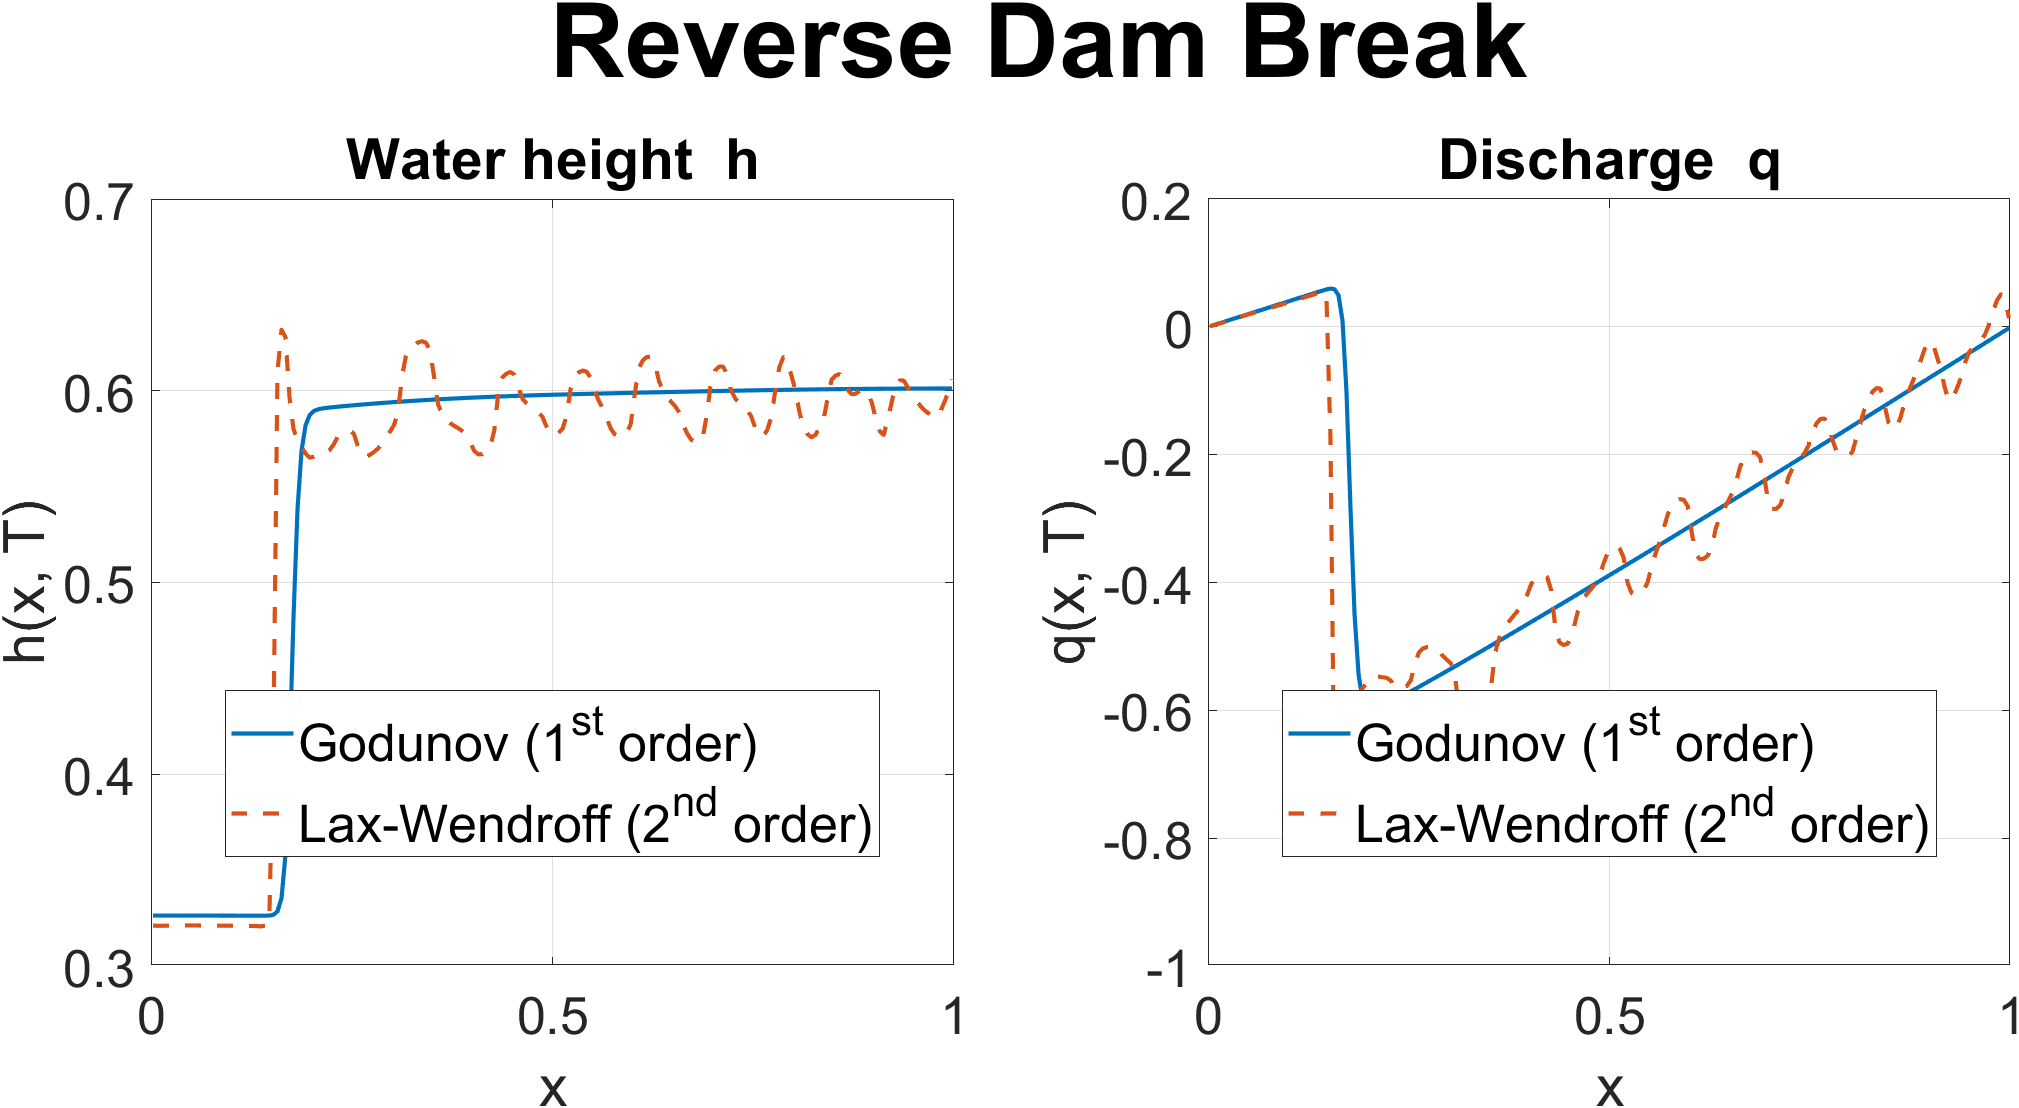
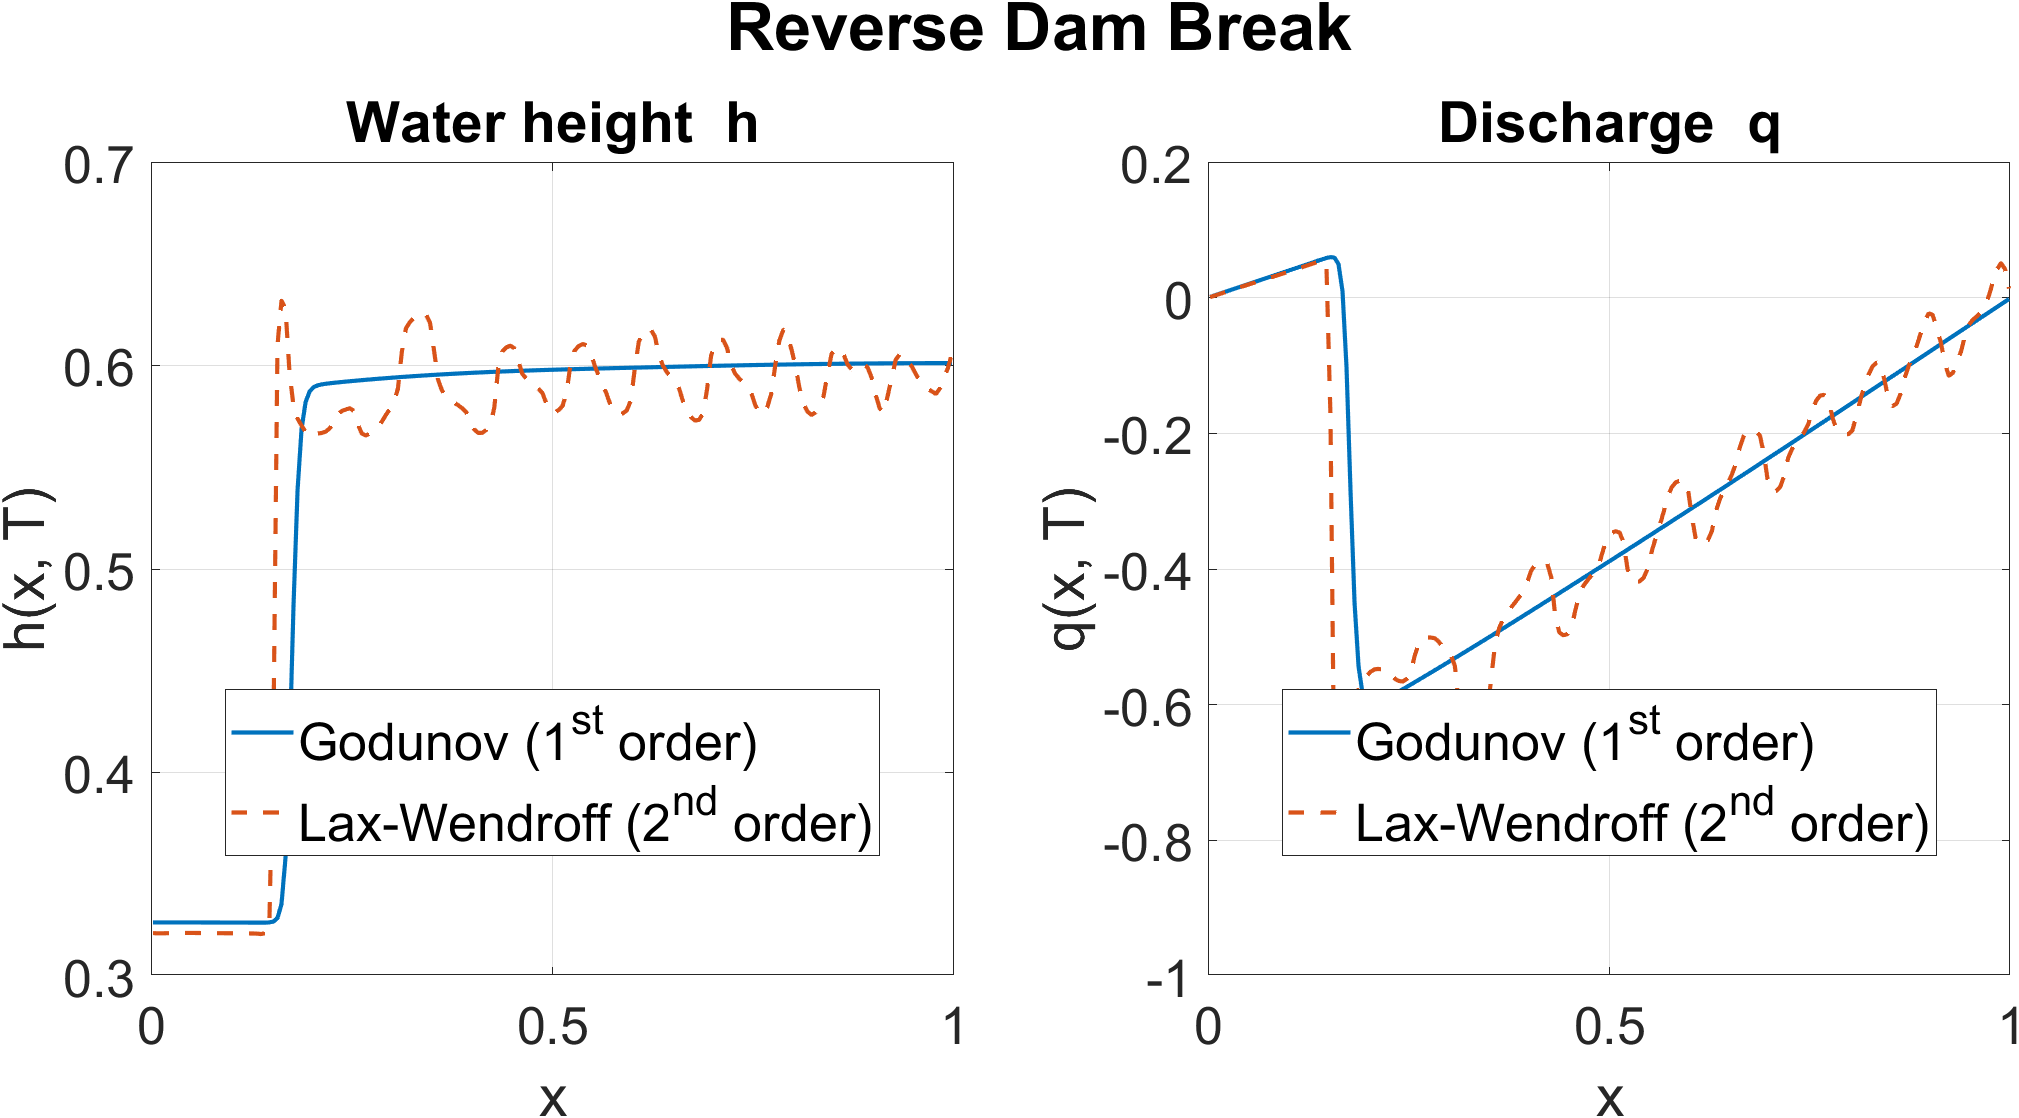
Last last

diff --git a/Homeworks/HW3/Codes/RunMainFVM.m b/Homeworks/HW3/Codes/RunMainFVM.m
@@ -26,7 +26,7 @@ if ~exist(out_dir, 'dir'), mkdir(out_dir); end
 % GLOBAL STYLE — edit ONLY here
 fs  = 25;           % axis/tick/legend font size
 fst = 50;           % sgtitle font size
-fsb = 25;           % subplot title font size
+fsb = 32;           % subplot title font size
 lw  = 2;            % line width
 c1  = '#0072BD';    % primary   — Godunov / Standard  (blue,   solid)
 c2  = '#D95319';    % secondary — LW / Modified       (orange, dashed)
@@ -57,7 +57,7 @@ for k = 1 : numel(Tests)
     figure('Name', fig_names_1{k}, 'NumberTitle', 'off');
     set(gcf, 'WindowState', 'maximized');
 
-    sgtitle(test_titles_1{k}, 'FontSize', fst, 'FontWeight', 'bold');
+    sgtitle(test_titles_1{k}, 'FontSize', fsb, 'FontWeight', 'bold');
 
     % Left panel — h
     subplot(1, 2, 1);
@@ -65,7 +65,7 @@ for k = 1 : numel(Tests)
     plot(Sol_LW.x, Sol_LW.h, '--', 'Color', c2, 'LineWidth', lw);
     xlabel('x',         'FontSize', fs);
     ylabel('h(x, T)',   'FontSize', fs);
-    title('Water height  h', 'FontSize', fsb, 'FontWeight', 'bold');
+    title('Water height  h', 'FontSize', fst, 'FontWeight', 'bold');
     legend('Godunov (1^{st} order)', 'Lax-Wendroff (2^{nd} order)', ...
            'FontSize', fs, 'Location', 'best');
     grid on; box on; ax = gca; ax.FontSize = fs;
@@ -76,7 +76,7 @@ for k = 1 : numel(Tests)
     plot(Sol_LW.x, Sol_LW.q, '--', 'Color', c2, 'LineWidth', lw);
     xlabel('x',         'FontSize', fs);
     ylabel('q(x, T)',   'FontSize', fs);
-    title('Discharge  q', 'FontSize', fsb, 'FontWeight', 'bold');
+    title('Discharge  q', 'FontSize', fst, 'FontWeight', 'bold');
     legend('Godunov (1^{st} order)', 'Lax-Wendroff (2^{nd} order)', ...
            'FontSize', fs, 'Location', 'best');
     grid on; box on; ax = gca; ax.FontSize = fs;
@@ -114,7 +114,7 @@ for k = 1 : numel(test_idx)
     set(gcf, 'WindowState', 'maximized');
 
     sgtitle([test_titles_2{k}, '  —  Standard vs Modified Pressure'], ...
-            'FontSize', fst, 'FontWeight', 'bold');
+            'FontSize', fsb, 'FontWeight', 'bold');
 
     % Left panel — h
     subplot(1, 2, 1);
@@ -122,7 +122,7 @@ for k = 1 : numel(test_idx)
     plot(Sol_mod.x, Sol_mod.h, '--', 'Color', c2, 'LineWidth', lw);
     xlabel('x',       'FontSize', fs);
     ylabel('h(x, T)', 'FontSize', fs);
-    title('Water height  h', 'FontSize', fsb, 'FontWeight', 'bold');
+    title('Water height  h', 'FontSize', fst, 'FontWeight', 'bold');
     legend('Standard Godunov', ...
            sprintf('Modified Godunov  (h_{ref} = %g)', h_ref), ...
            'FontSize', fs, 'Location', 'best');
@@ -134,7 +134,7 @@ for k = 1 : numel(test_idx)
     plot(Sol_mod.x, Sol_mod.q, '--', 'Color', c2, 'LineWidth', lw);
     xlabel('x',       'FontSize', fs);
     ylabel('q(x, T)', 'FontSize', fs);
-    title('Discharge  q', 'FontSize', fsb, 'FontWeight', 'bold');
+    title('Discharge  q', 'FontSize', fst, 'FontWeight', 'bold');
     legend('Standard Godunov', ...
            sprintf('Modified Godunov  (h_{ref} = %g)', h_ref), ...
            'FontSize', fs, 'Location', 'best');
